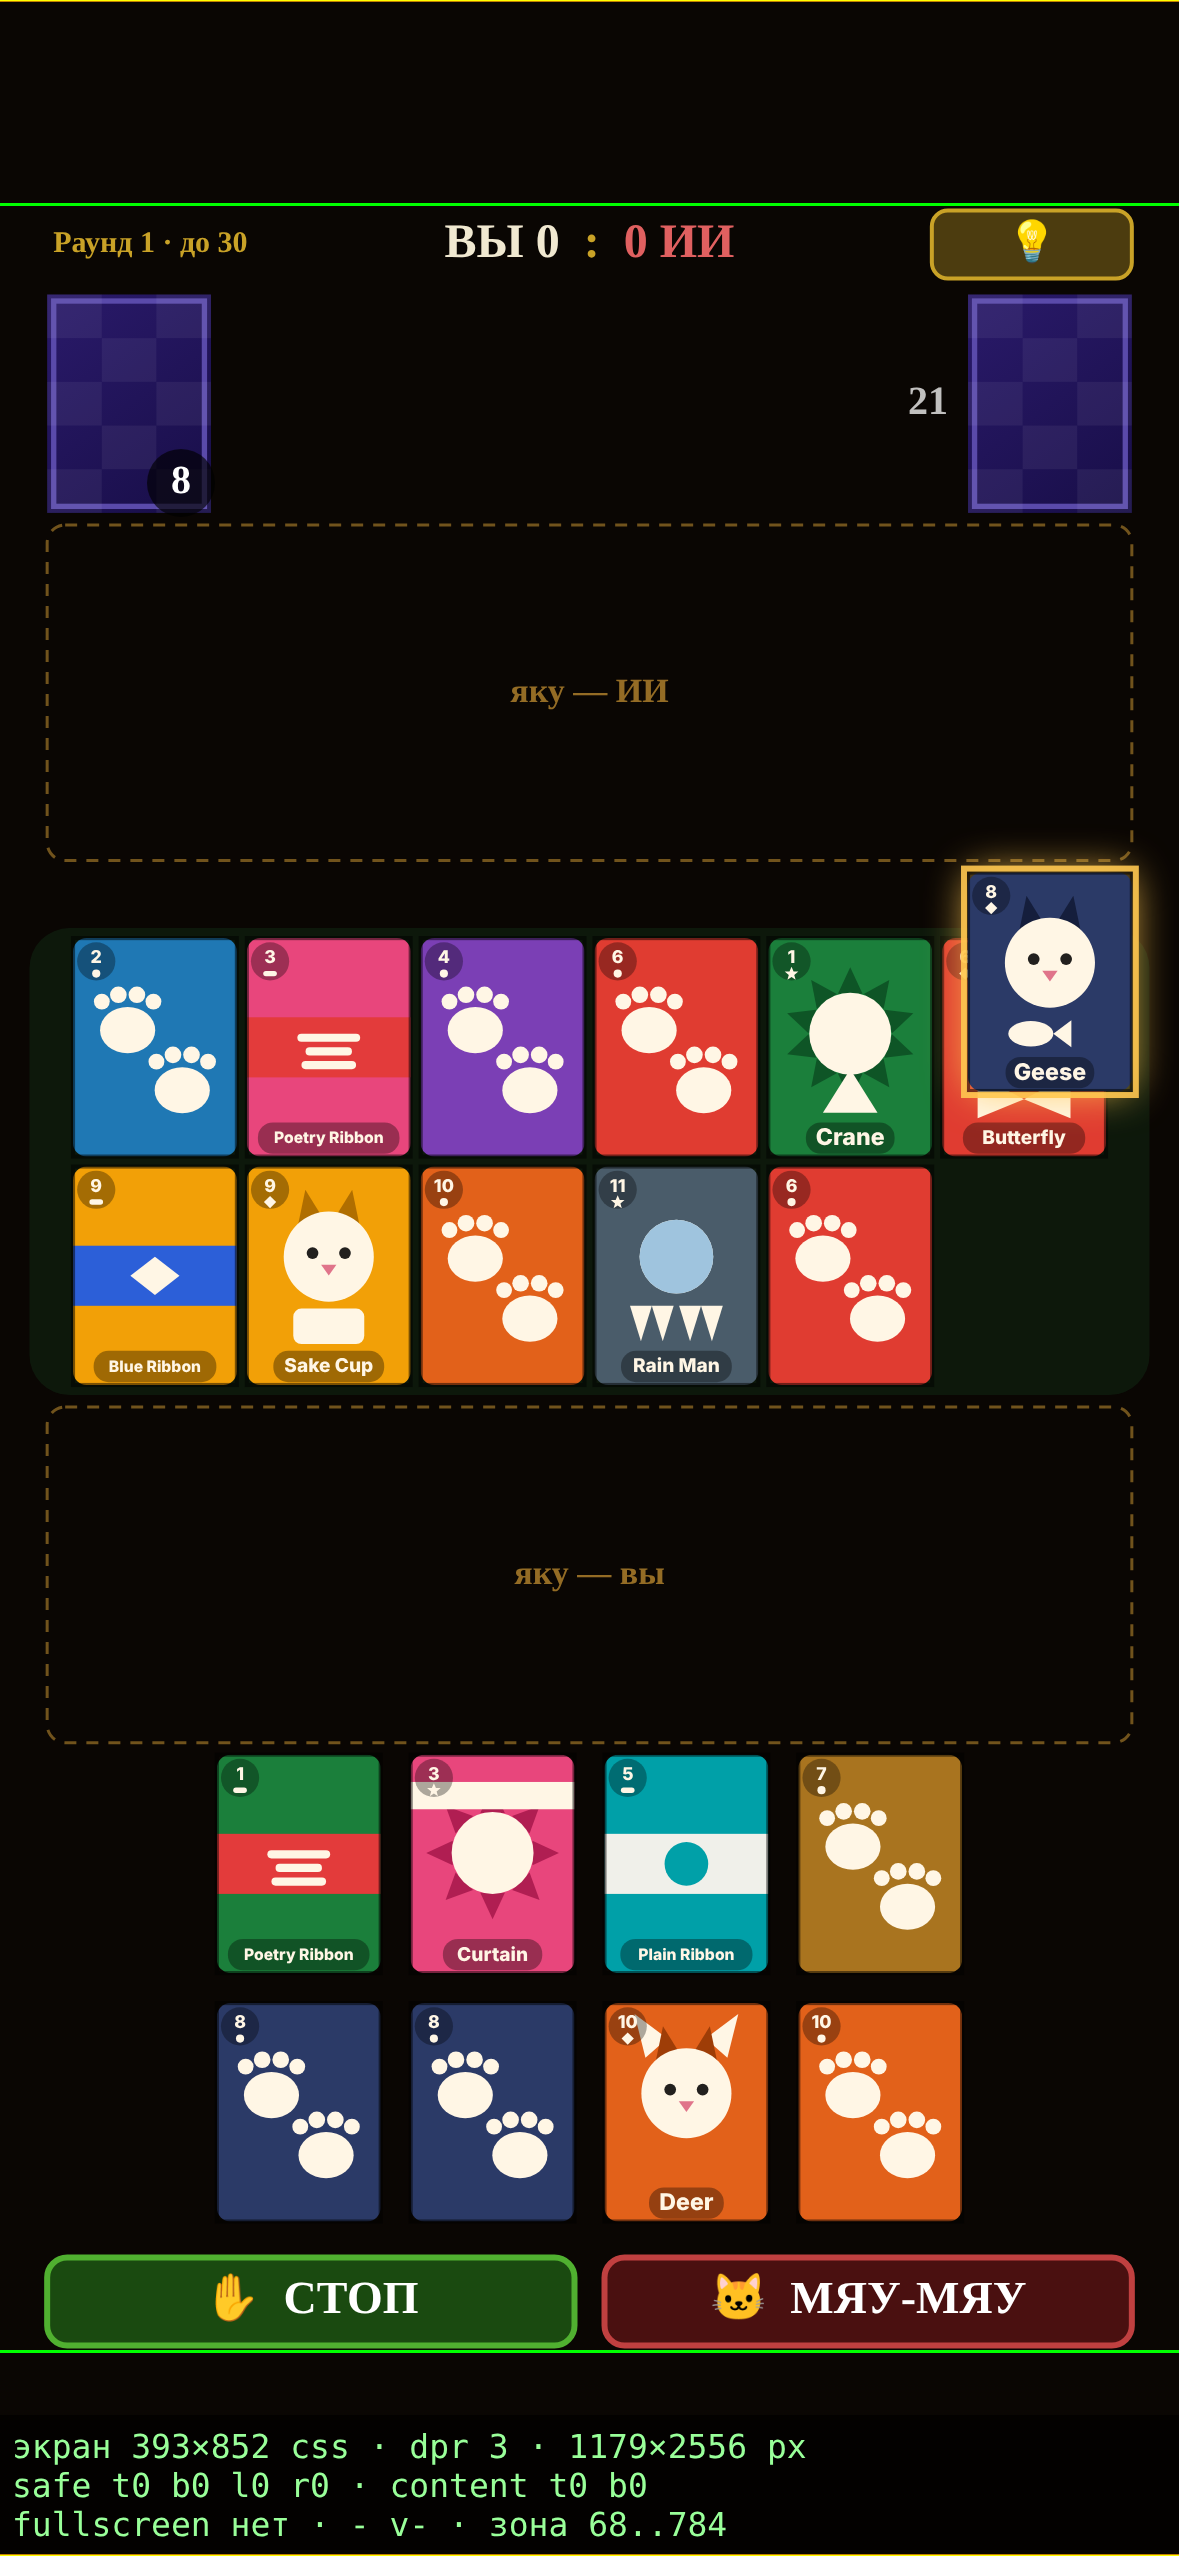
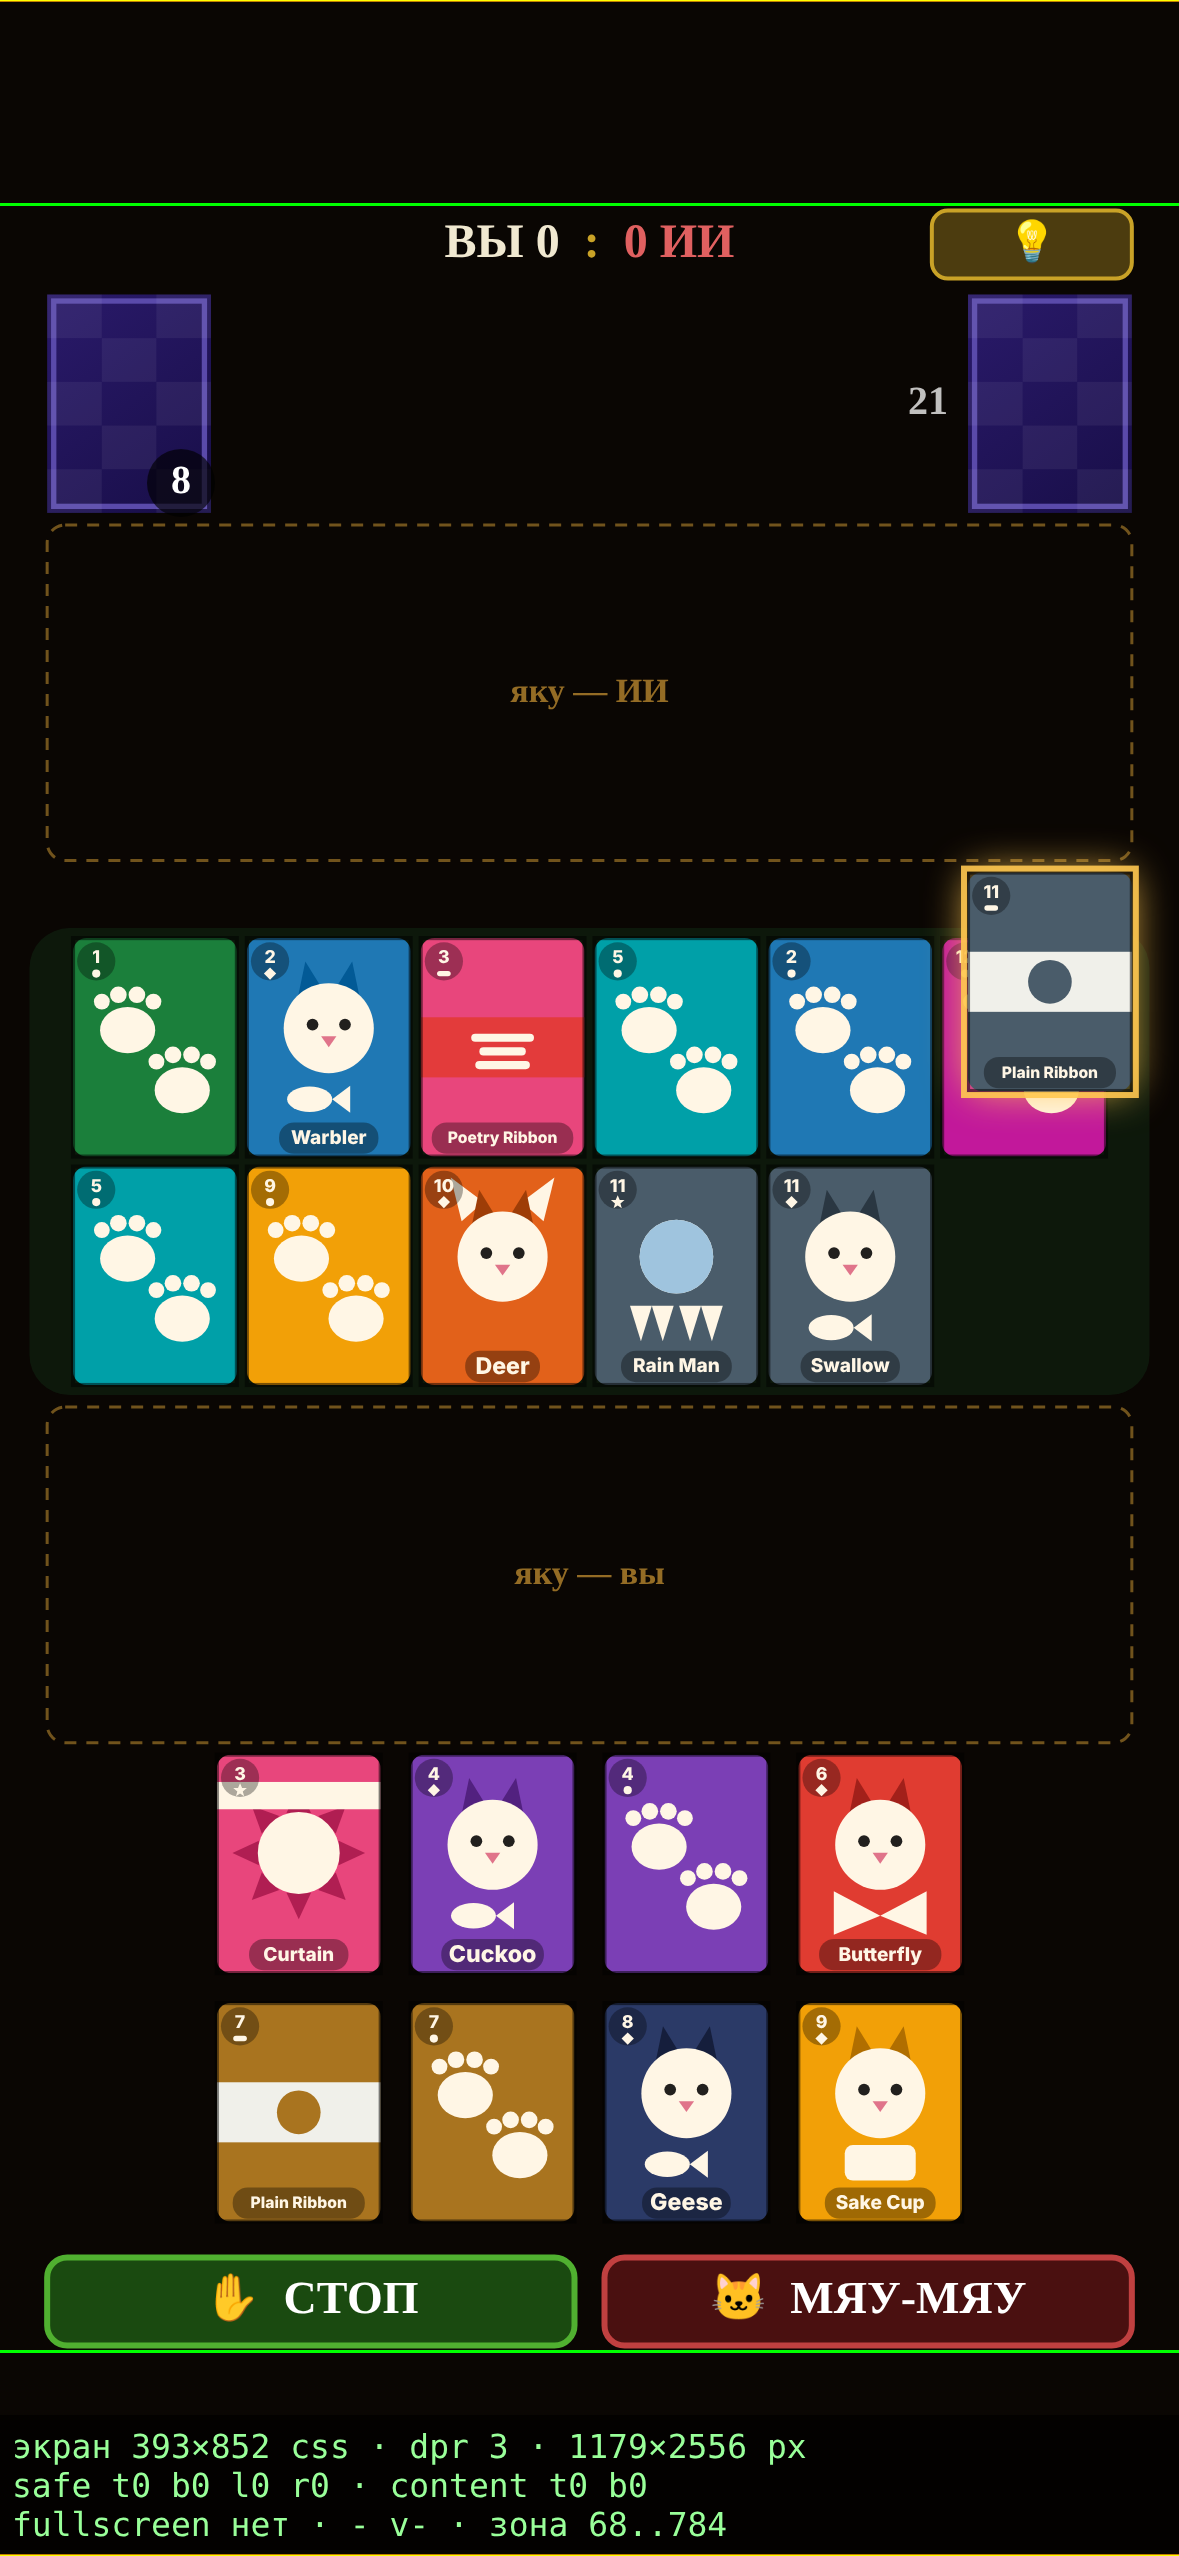
UI: убран «Раунд N · до 30» из шапки, остался счёт матча; ★ Мяу-Мяу — слева, когда объявлено
Claude-Session: https://claude.ai/code/session_01YWBhc7XyH6Quahzkpjq16G

diff --git a/index.html b/index.html
@@ -387,13 +387,14 @@ function drawBoard(){
   for(const k in ANIM) if(!ANIM[k].seen) delete ANIM[k];
   if(DEBUG_INSETS) drawDebugInsets(L);
 }
-// Шапка: счёт матча по центру, раунд слева, 💡 справа
+// Шапка: счёт матча по центру, 💡 справа; слева — отметка «★ Мяу-Мяу», если объявлено
 function drawBoardHeader(L){
   const h=L.header,cy=h.y+h.h/2;
   ct.textBaseline='middle';
-  ct.font='bold 30px Georgia';ct.fillStyle='#c9a227';ct.textAlign='left';
-  const koi=(G.koiKoi||G.aKoiKoi)?' ★':'';
-  ct.fillText(`Раунд ${G.round} · до ${G.targetScore}${koi}`,h.x+6,cy);
+  if(G.koiKoi||G.aKoiKoi){
+    ct.font='bold 30px Georgia';ct.fillStyle='#c9a227';ct.textAlign='left';
+    ct.fillText('★ Мяу-Мяу',h.x+6,cy);
+  }
   ct.font='bold 48px Georgia';ct.textAlign='center';
   const you=`ВЫ ${G.scores[0]}`, sep='  :  ', ai=`${G.scores[1]} ИИ`;
   const wy=ct.measureText(you).width, ws=ct.measureText(sep).width, wa=ct.measureText(ai).width;

diff --git a/docs/ui-layout.md b/docs/ui-layout.md
@@ -18,7 +18,8 @@
   5–6. Карта держит своё место (`G.tslot`), новая занимает первое свободное. Сетка
   центрируется по числу занятых колонок (минимум 4): появилась 5-я — сетка
   съезжает на полкарты влево, ушла — возвращается. Больше 12 — 3 ряда ужатых.
-- **Шапка:** счёт матча «ВЫ n : m ИИ» по центру, раунд слева мелко, 💡 справа.
+- **Шапка:** счёт матча «ВЫ n : m ИИ» по центру, 💡 справа; «Раунд N · до 30» убран
+  по слову пользователя, слева только «★ Мяу-Мяу», когда объявлено.
   Отдельные счётчики очков раунда в ячейках убраны.
 - **Яку — пока просто место:** пунктирные рамки над и под столом, внутри строка
   собранных яку и очки раунда. Оформление ячеек — по описанию пользователя позже
